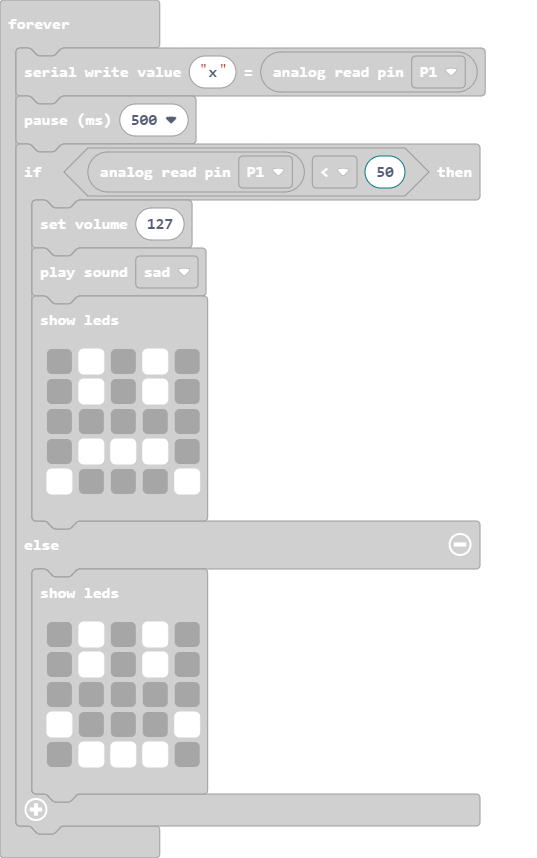
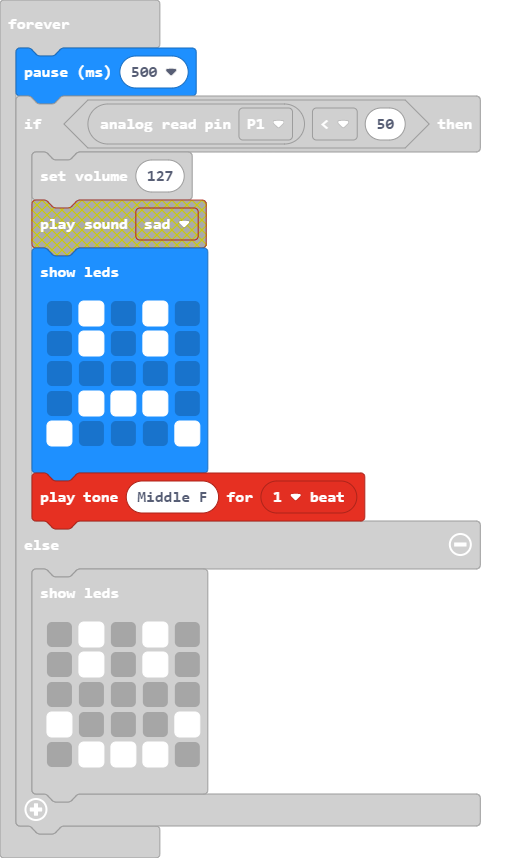
Update main.blocks, main.ts

diff --git a/main.ts b/main.ts
@@ -1,9 +1,8 @@
 basic.forever(function () {
-    serial.writeValue("x", pins.analogReadPin(AnalogPin.P1))
     basic.pause(500)
     if (pins.analogReadPin(AnalogPin.P1) < 50) {
         music.setVolume(127)
-        soundExpression.sad.play()
+        music.playTone(349, music.beat(BeatFraction.Whole))
         basic.showLeds(`
             . # . # .
             . # . # .
